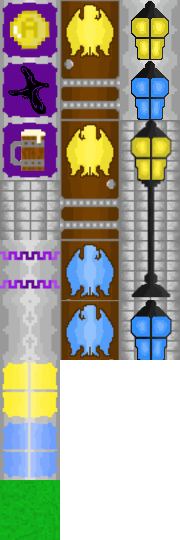
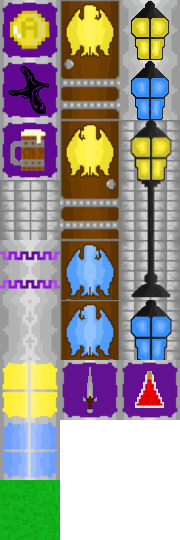
Fixed eaglecrest bank and the forge tilemaps, finished eaglecrest elixirs and the forge, bigfixes

Changed region(s): [[0.3333, 0.6519, 1.0, 0.8], [0.1111, 0.2667, 0.1389, 0.2963]]

diff --git a/gamedata/areadata.js b/gamedata/areadata.js
@@ -1135,13 +1135,13 @@ var Areas = {
 					},
 					{
 						sold: [
+							{item: Items.consumable[17], cost: 2, costCurrency: 5, eventRequirement: "Christmas"}, // Christmas Potion
 							{item: Items.consumable[4], cost: 2}, // potion of health I
-							{item: Items.consumable[3], cost: 2}, // potion of swiftness I
+							{item: Items.consumable[3], cost: 3}, // potion of swiftness I
 							{item: Items.consumable[2], cost: 4}, // potion of strength I
 							{item: Items.consumable[11], cost: 4, condition: function () { // potion of goblin resistance
 								return Player.quests.completedQuestArray.includes("Potion Making II");
 							}},
-							{item: Items.consumable[17], cost: 2, costCurrency: 5, eventRequirement: "Christmas"}, // Christmas Potion
 						],
 						role: "merchant",
 						roleRequirement: function () {
@@ -2968,7 +2968,7 @@ var Areas = {
 			dayTiles: [14, 17, 6, 18, 22], // windows and lights
 			nightTiles: [2, 8, 3, 9, 19], // windows and lights
 			layers: [
-				[16, 16, 16, 16, 16, 16, 16, 16, 16, 16, 16, 16, 16, 16, 16, 16, 16, 16, 16, 16, 16, 16, 16, 16, 16, 13, 13, 13, 13, 13, 13, 13, 13, 13, 13, 13, 13, 13, 13, 13, 13, 13, 13, 13, 13, 13, 13, 13, 13, 13, 6, 16, 16, 16, 16, 16, 16, 16, 16, 6, 16, 16, 16, 16, 16, 6, 16, 16, 16, 16, 16, 16, 16, 16, 6, 16, 16, 22, 16, 17, 14, 7, 22, 16, 16, 16, 16, 4, 16, 16, 16, 16, 22, 16, 17, 14, 1, 22, 16, 16, 16, 16, 16, 16, 11, 5, 16, 16, 16, 16, 16, 16, 16, 16, 16, 16, 16, 16, 16, 11, 5, 16, 16, 16, 16, 10, 10, 10, 10, 10, 10, 10, 10, 10, 10, 10, 10, 10, 10, 10, 10, 10, 10, 10, 10, 10, 10, 10, 10, 10, 10, 18, 10, 10, 10, 10, 10, 10, 10, 10, 10, 10, 10, 10, 10, 10, 10, 10, 10, 10, 10, 10, 10, 18, 10, 10, 12, 10, 10, 10, 10, 10, 10, 10, 10, 10, 10, 10, 10, 10, 10, 10, 10, 10, 10, 10, 10, 10, 12, 10, 10, 15, 10, 10, 10, 10, 10, 10, 10, 10, 10, 10, 10, 10, 10, 10, 10, 10, 10, 10, 10, 10, 10, 15, 10, 10, 10, 10, 10, 10, 10, 10, 10, 10, 10, 10, 10, 10, 10, 10, 10, 10, 10, 10, 10, 10, 10, 10, 10, 10, 10, 10, 10, 10, 10, 10, 10, 10, 10, 10, 10, 10, 10, 10, 10, 10, 10, 10, 10, 10, 10, 10, 10, 10, 10, 10, 10, 10, 10, 10, 10, 10, 10, 10, 10, 10, 10, 10, 10, 10, 10, 10, 10, 10, 10, 10, 10, 10, 10, 10, 10, 18, 10, 10, 10, 10, 10, 10, 10, 10, 10, 10, 10, 10, 10, 10, 10, 10, 10, 10, 10, 10, 10, 18, 10, 10, 12, 10, 10, 10, 10, 10, 10, 10, 10, 10, 10, 10, 10, 10, 10, 10, 10, 10, 10, 10, 10, 10, 12, 10, 10, 15, 10, 10, 10, 10, 10, 10, 10, 10, 10, 10, 10, 10, 10, 10, 10, 10, 10, 10, 10, 10, 10, 15, 10, 10, 10, 10, 10, 10, 10, 10, 10, 10, 10, 10, 10, 10, 10, 10, 10, 10, 10, 10, 10, 10, 10, 10, 10, 10, 10, 10, 10, 10, 10, 10, 10, 10, 10, 10, 10, 10, 10, 10, 10, 10, 10, 10, 10, 10, 10, 10, 10, 10, 10, 10, 10, 10, 10, 10, 10, 10, 10, 10, 10, 10, 10, 10, 10, 10, 10, 10, 10, 10, 10, 10, 10, 10, 10, 10, 10, 10, 10, 10, 10, 10, 10, 10, 18, 10, 10, 10, 10, 10, 10, 10, 18, 10, 10, 10, 10, 10, 10, 10, 10, 10, 10, 10, 10, 10, 10, 10, 10, 12, 10, 10, 10, 10, 10, 10, 10, 12, 10, 10, 10, 10, 10, 10, 10, 10, 10, 10, 10, 10, 10, 10, 10, 10, 15, 10, 10, 10, 10, 10, 10, 10, 15, 10, 10, 10, 10, 10, 10, 10, 10, 10, 10, 10, 10, 10, 10, 10, 10, 10, 10, 10, 10, 10, 10, 10, 10, 10, 10, 10, 10, 10, 10, 10, 10, 10],
+				[16, 16, 16, 16, 16, 16, 16, 16, 16, 16, 16, 16, 16, 16, 16, 16, 16, 16, 16, 16, 16, 16, 16, 16, 16, 13, 13, 13, 13, 13, 13, 13, 13, 13, 13, 13, 13, 13, 13, 13, 13, 13, 13, 13, 13, 13, 13, 13, 13, 13, 6, 16, 16, 16, 16, 16, 16, 16, 16, 6, 16, 16, 16, 16, 16, 6, 16, 16, 16, 16, 16, 16, 16, 16, 6, 16, 16, 22, 16, 17, 14, 7, 22, 16, 16, 16, 16, 4, 16, 16, 16, 16, 22, 1, 17, 14, 16, 22, 16, 16, 16, 16, 16, 16, 11, 5, 16, 16, 16, 16, 16, 16, 16, 16, 16, 16, 16, 16, 16, 11, 5, 16, 16, 16, 16, 10, 10, 10, 10, 10, 10, 10, 10, 10, 10, 10, 10, 10, 10, 10, 10, 10, 10, 10, 10, 10, 10, 10, 10, 10, 10, 18, 10, 10, 10, 10, 10, 10, 10, 10, 10, 10, 10, 10, 10, 10, 10, 10, 10, 10, 10, 10, 10, 18, 10, 10, 12, 10, 10, 10, 10, 10, 10, 10, 10, 10, 10, 10, 10, 10, 10, 10, 10, 10, 10, 10, 10, 10, 12, 10, 10, 15, 10, 10, 10, 10, 10, 10, 10, 10, 10, 10, 10, 10, 10, 10, 10, 10, 10, 10, 10, 10, 10, 15, 10, 10, 10, 10, 10, 10, 10, 10, 10, 10, 10, 10, 10, 10, 10, 10, 10, 10, 10, 10, 10, 10, 10, 10, 10, 10, 10, 10, 10, 10, 10, 10, 10, 10, 10, 10, 10, 10, 10, 10, 10, 10, 10, 10, 10, 10, 10, 10, 10, 10, 10, 10, 10, 10, 10, 10, 10, 10, 10, 10, 10, 10, 10, 10, 10, 10, 10, 10, 10, 10, 10, 10, 10, 10, 10, 10, 10, 18, 10, 10, 10, 10, 10, 10, 10, 10, 10, 10, 10, 10, 10, 10, 10, 10, 10, 10, 10, 10, 10, 18, 10, 10, 12, 10, 10, 10, 10, 10, 10, 10, 10, 10, 10, 10, 10, 10, 10, 10, 10, 10, 10, 10, 10, 10, 12, 10, 10, 15, 10, 10, 10, 10, 10, 10, 10, 10, 10, 10, 10, 10, 10, 10, 10, 10, 10, 10, 10, 10, 10, 15, 10, 10, 10, 10, 10, 10, 10, 10, 10, 10, 10, 10, 10, 10, 10, 10, 10, 10, 10, 10, 10, 10, 10, 10, 10, 10, 10, 10, 10, 10, 10, 10, 10, 10, 10, 10, 10, 10, 10, 10, 10, 10, 10, 10, 10, 10, 10, 10, 10, 10, 10, 10, 10, 10, 10, 10, 10, 10, 10, 10, 10, 10, 10, 10, 10, 10, 10, 10, 10, 10, 10, 10, 10, 10, 10, 10, 10, 10, 10, 10, 10, 10, 10, 10, 18, 10, 10, 10, 10, 10, 10, 10, 18, 10, 10, 10, 10, 10, 10, 10, 10, 10, 10, 10, 10, 10, 10, 10, 10, 12, 10, 10, 10, 10, 10, 10, 10, 12, 10, 10, 10, 10, 10, 10, 10, 10, 10, 10, 10, 10, 10, 10, 10, 10, 15, 10, 10, 10, 10, 10, 10, 10, 15, 10, 10, 10, 10, 10, 10, 10, 10, 10, 10, 10, 10, 10, 10, 10, 10, 10, 10, 10, 10, 10, 10, 10, 10, 10, 10, 10, 10, 10, 10, 10, 10, 10],
 				[],
 			],
 		},
@@ -3258,7 +3258,7 @@ var Areas = {
 			dayTiles: [14, 17, 6, 18, 22], // windows and lights
 			nightTiles: [2, 8, 3, 9, 19], // windows and lights
 			layers: [
-				[16, 16, 16, 16, 16, 16, 16, 16, 16, 16, 16, 16, 16, 16, 16, 16, 16, 16, 16, 16, 16, 13, 13, 13, 13, 13, 13, 13, 13, 13, 13, 13, 13, 13, 13, 13, 13, 13, 13, 13, 13, 13, 6, 16, 16, 16, 16, 4, 16, 16, 16, 16, 6, 16, 16, 16, 16, 4, 16, 16, 16, 16, 6, 16, 16, 16, 22, 16, 17, 16, 22, 16, 16, 16, 16, 16, 22, 16, 14, 16, 22, 16, 16, 16, 16, 16, 16, 16, 16, 11, 16, 16, 16, 16, 16, 16, 16, 16, 16, 5, 16, 16, 16, 16, 16, 10, 10, 10, 10, 10, 10, 10, 10, 10, 10, 10, 10, 10, 10, 10, 10, 10, 10, 10, 10, 10, 10, 10, 10, 10, 10, 10, 10, 10, 10, 10, 10, 10, 10, 10, 10, 10, 10, 10, 10, 10, 10, 10, 10, 10, 10, 10, 10, 10, 10, 10, 10, 10, 10, 10, 10, 10, 10, 10, 10, 10, 10, 10, 10, 10, 10, 10, 10, 10, 10, 10, 10, 10, 10, 10, 10, 10, 10, 10, 10, 10, 10, 10, 10, 10, 10, 10, 10, 10, 10, 10, 10, 10, 10, 10, 10, 10, 10, 10, 10, 10, 10, 10, 10, 10, 10, 10, 10, 10, 10, 10, 10, 10, 10, 10, 10, 10, 10, 10, 10, 10, 10, 10, 10, 10, 10],
+				[16, 16, 16, 16, 16, 16, 16, 16, 16, 16, 16, 16, 16, 16, 16, 16, 16, 16, 16, 16, 16, 13, 13, 13, 13, 13, 13, 13, 13, 13, 13, 13, 13, 13, 13, 13, 13, 13, 13, 13, 13, 13, 6, 16, 16, 16, 16, 4, 16, 16, 16, 16, 6, 16, 16, 16, 16, 20, 16, 16, 16, 16, 6, 16, 16, 16, 22, 16, 17, 16, 22, 16, 16, 4, 16, 16, 22, 16, 14, 16, 22, 16, 16, 16, 16, 16, 16, 16, 16, 11, 16, 16, 16, 16, 16, 16, 16, 16, 16, 5, 16, 16, 16, 16, 16, 10, 10, 10, 10, 10, 10, 10, 10, 10, 10, 10, 10, 10, 10, 10, 10, 10, 10, 10, 10, 10, 10, 10, 10, 10, 10, 10, 10, 10, 10, 10, 10, 10, 10, 10, 10, 10, 10, 10, 10, 10, 10, 10, 10, 10, 10, 10, 10, 10, 10, 10, 10, 10, 10, 10, 10, 10, 10, 10, 10, 10, 10, 10, 10, 10, 10, 10, 10, 10, 10, 10, 10, 10, 10, 10, 10, 10, 10, 10, 10, 10, 10, 10, 10, 10, 10, 10, 10, 10, 10, 10, 10, 10, 10, 10, 10, 10, 10, 10, 10, 10, 10, 10, 10, 10, 10, 10, 10, 10, 10, 10, 10, 10, 10, 10, 10, 10, 10, 10, 10, 10, 10, 10, 10, 10, 10],
 				[],
 			],
 		},
@@ -3273,7 +3273,7 @@ var Areas = {
 				// teleport to the forge
 				x: 930,
 				y: 210,
-				width: 120,
+				width: 60,
 				height: 2,
 				teleportTo: "theForge",
 				destinationX: 395,
@@ -3373,7 +3373,7 @@ var Areas = {
 			dayTiles: [14, 17, 6, 18, 22], // windows and lights
 			nightTiles: [2, 8, 3, 9, 19], // windows and lights
 			layers: [
-				[16, 16, 16, 16, 16, 16, 16, 16, 16, 16, 16, 16, 16, 16, 16, 16, 16, 16, 16, 16, 16, 13, 13, 13, 13, 13, 13, 13, 13, 13, 13, 13, 13, 13, 13, 13, 13, 13, 13, 13, 13, 13, 6, 16, 16, 16, 16, 4, 16, 16, 16, 16, 6, 16, 16, 16, 16, 4, 16, 16, 16, 16, 6, 16, 16, 16, 22, 16, 17, 16, 22, 16, 16, 16, 16, 16, 22, 16, 14, 16, 22, 16, 16, 16, 16, 16, 16, 16, 16, 11, 16, 16, 16, 16, 16, 16, 16, 16, 16, 5, 16, 16, 16, 16, 16, 10, 10, 10, 10, 10, 10, 10, 10, 10, 10, 10, 10, 10, 10, 10, 10, 10, 10, 10, 10, 10, 10, 10, 10, 10, 10, 10, 10, 10, 10, 10, 10, 10, 10, 10, 10, 10, 10, 10, 10, 10, 10, 10, 10, 10, 10, 10, 10, 10, 10, 10, 10, 10, 10, 10, 10, 10, 10, 10, 10, 10, 10, 10, 10, 10, 10, 10, 10, 10, 10, 10, 10, 10, 10, 10, 10, 10, 10, 10, 10, 10, 10, 10, 10, 10, 10, 10, 10, 10, 10, 10, 10, 10, 10, 10, 10, 10, 10, 10, 10, 10, 10, 10, 10, 10, 10, 10, 10, 10, 10, 10, 10, 10, 10, 10, 10, 10, 10, 10, 10, 10, 10, 10, 10, 10, 10],
+				[16, 16, 16, 16, 16, 16, 16, 16, 16, 16, 16, 16, 16, 16, 16, 16, 16, 16, 16, 16, 16, 13, 13, 13, 13, 13, 13, 13, 13, 13, 13, 13, 13, 13, 13, 13, 13, 13, 13, 13, 13, 13, 6, 16, 16, 16, 16, 21, 16, 16, 16, 16, 6, 16, 16, 16, 16, 4, 16, 16, 16, 16, 6, 16, 16, 16, 22, 16, 17, 16, 22, 16, 16, 4, 16, 16, 22, 16, 14, 16, 22, 16, 16, 16, 16, 16, 16, 16, 16, 11, 16, 16, 16, 16, 16, 16, 16, 16, 16, 5, 16, 16, 16, 16, 16, 10, 10, 10, 10, 10, 10, 10, 10, 10, 10, 10, 10, 10, 10, 10, 10, 10, 10, 10, 10, 10, 10, 10, 10, 10, 10, 10, 10, 10, 10, 10, 10, 10, 10, 10, 10, 10, 10, 10, 10, 10, 10, 10, 10, 10, 10, 10, 10, 10, 10, 10, 10, 10, 10, 10, 10, 10, 10, 10, 10, 10, 10, 10, 10, 10, 10, 10, 10, 10, 10, 10, 10, 10, 10, 10, 10, 10, 10, 10, 10, 10, 10, 10, 10, 10, 10, 10, 10, 10, 10, 10, 10, 10, 10, 10, 10, 10, 10, 10, 10, 10, 10, 10, 10, 10, 10, 10, 10, 10, 10, 10, 10, 10, 10, 10, 10, 10, 10, 10, 10, 10, 10, 10, 10, 10, 10],
 				[],
 			],
 		},
@@ -3388,7 +3388,7 @@ var Areas = {
 				// teleport to elixirs
 				x: 330,
 				y: 210,
-				width: 120,
+				width: 60,
 				height: 2,
 				teleportTo: "eaglecrestElixirs",
 				destinationX: 395,
@@ -3474,7 +3474,7 @@ var Areas = {
 			tilesPerRow: 2,
 			solidTiles: [1], // wall
 			layers: [
-				[1, 1, 1, 1, 1, 1, 1, 1, 1, 1, 1, 1, 1, 1, 1, 1, 1, 1, 5, 5, 1, 1, 5, 5, 1, 1, 1, 5, 5, 1, 1, 5, 5, 1, 1, 5, 5, 1, 1, 5, 5, 1, 1, 1, 5, 5, 1, 1, 5, 5, 1, 1, 1, 1, 1, 1, 1, 1, 1, 1, 1, 1, 1, 1, 1, 1, 1, 1, 2, 3, 2, 3, 2, 3, 2, 3, 2, 3, 2, 3, 2, 3, 2, 3, 2, 3, 2, 3, 2, 3, 2, 3, 2, 3, 2, 3, 2, 3, 2, 3, 2, 3, 4, 4, 4, 4, 4, 4, 2, 3, 2, 3, 2, 4, 4, 4, 4, 4, 4, 4, 4, 4, 4, 4, 4, 4, 2, 3, 2, 4, 4, 4, 4, 4, 4, 4, 4, 4, 4, 4, 4, 4, 4, 3, 2, 3, 4, 4, 4, 4, 4, 4, 4, 4, 4, 4, 4, 4, 4, 4, 2, 3, 2, 4, 4, 4, 4, 4, 4, 4, 4, 4, 4, 4, 4, 4, 4, 3, 2, 3, 4, 4, 4, 4, 4, 4, 4, 4, 4, 4, 4, 4, 4, 4, 2, 3, 2, 4, 4, 4, 4, 4, 4, 4, 4, 4, 4, 4, 4, 4, 4, 3, 2, 3, 4, 4, 4, 4, 4, 4, 4, 4, 4, 4, 4, 4, 4, 4, 2, 3, 2, 4, 4, 4, 4, 4, 4, 4, 4, 4, 4, 4, 4, 4, 2, 3, 2, 3, 2, 4, 4, 4, 4, 4, 4],
+				[1, 1, 1, 1, 1, 1, 1, 1, 1, 1, 1, 1, 1, 1, 1, 1, 1, 1, 9, 9, 1, 1, 9, 9, 1, 1, 1, 9, 9, 1, 1, 9, 9, 1, 1, 9, 9, 1, 1, 9, 9, 1, 1, 1, 9, 9, 1, 1, 9, 9, 1, 1, 1, 1, 1, 1, 1, 1, 1, 1, 1, 1, 1, 1, 1, 1, 1, 1, 3, 5, 3, 5, 3, 5, 3, 5, 3, 5, 3, 5, 3, 5, 3, 5, 3, 5, 3, 5, 3, 5, 3, 5, 3, 5, 3, 5, 3, 5, 3, 5, 3, 5, 7, 7, 7, 7, 7, 7, 3, 5, 3, 5, 3, 7, 7, 7, 7, 7, 7, 7, 7, 7, 7, 7, 7, 7, 3, 5, 3, 7, 7, 7, 7, 7, 7, 7, 7, 7, 7, 7, 7, 7, 7, 5, 3, 5, 7, 7, 7, 7, 7, 7, 7, 7, 7, 7, 7, 7, 7, 7, 3, 5, 3, 7, 7, 7, 7, 7, 7, 7, 7, 7, 7, 7, 7, 7, 7, 5, 3, 5, 7, 7, 7, 7, 7, 7, 7, 7, 7, 7, 7, 7, 7, 7, 3, 5, 3, 7, 7, 7, 7, 7, 7, 7, 7, 7, 7, 7, 7, 7, 7, 5, 3, 5, 7, 7, 7, 7, 7, 7, 7, 7, 7, 7, 7, 7, 7, 7, 3, 5, 3, 7, 7, 7, 7, 7, 7, 7, 7, 7, 7, 7, 7, 7, 3, 5, 3, 5, 3, 7, 7, 7, 7, 7, 7],
 				[],
 			],
 		},
@@ -4182,15 +4182,22 @@ var Areas = {
 			rows: 14,
 			tsize: 60,
 			tilesPerRow: 2,
-			solidTiles: [1], // wall
+			solidTiles: [1, 11], // wall
+			dayTiles: [2], // windows
+			nightTiles: [4],
 			layers: [
-				[1, 1, 1, 1, 1, 1, 1, 1, 1, 1, 1, 1, 1, 1, 1, 1, 1, 1, 1, 1, 1, 1, 1, 1, 1, 1, 1, 1, 1, 1, 1, 1, 1, 1, 1, 1, 1, 1, 1, 1, 1, 1, 1, 1, 1, 1, 1, 1, 1, 1, 1, 1, 4, 4, 4, 4, 4, 4, 4, 4, 4, 4, 4, 4, 4, 4, 4, 4, 4, 4, 4, 4, 4, 4, 4, 4, 4, 4, 4, 4, 4, 4, 4, 4, 4, 4, 4, 4, 4, 4, 4, 4, 4, 4, 4, 4, 4, 4, 4, 4, 4, 4, 4, 4, 4, 4, 4, 4, 4, 4, 4, 4, 4, 4, 4, 4, 4, 4, 4, 4, 4, 4, 4, 4, 4, 4, 4, 4, 4, 4, 4, 4, 4, 4, 4, 4, 4, 4, 4, 4, 4, 4, 4, 4, 4, 4, 4, 4, 4, 4, 4, 4, 4, 4, 4, 4, 4, 4, 4, 4, 4, 4, 4, 4, 4, 4, 4, 4, 4, 4, 4, 4, 4, 4, 4, 4, 4, 4, 4, 4, 4, 4],
+				[1, 1, 1, 1, 1, 1, 1, 1, 1, 1, 1, 1, 1, 1, 2, 1, 1, 1, 1, 2, 1, 1, 1, 1, 2, 1, 1, 1, 1, 1, 1, 1, 1, 1, 1, 1, 1, 1, 1, 1, 1, 1, 1, 1, 1, 1, 1, 1, 1, 1, 1, 1, 7, 7, 7, 7, 7, 7, 7, 7, 7, 7, 7, 7, 7, 7, 7, 7, 7, 7, 7, 7, 7, 7, 7, 7, 7, 7, 7, 7, 7, 11, 11, 11, 11, 11, 11, 11, 7, 7, 7, 7, 7, 7, 7, 7, 7, 7, 7, 7, 7, 7, 7, 7, 7, 7, 7, 7, 7, 7, 7, 7, 7, 7, 7, 7, 7, 7, 7, 7, 7, 7, 7, 7, 7, 7, 7, 7, 7, 7, 7, 7, 7, 7, 7, 7, 7, 7, 7, 7, 7, 7, 7, 7, 7, 7, 7, 7, 7, 7, 7, 7, 7, 7, 7, 7, 7, 7, 7, 7, 7, 7, 7, 7, 7, 7, 7, 7, 7, 7, 7, 7, 7, 7, 7, 7, 7, 7, 7, 7, 7, 7],
 				[],
 			],
 		},
 
 		images: {
 			tiles: {normal: "assets/tilemap/eaglecrestShop.png"},
+			blacksmith: {normal: "assets/npcs/blacksmith.png"},
+			eaglecrestianForgedSet: {normal: "assets/items/set/5.png"},
+			eaglecrestianForgedBow: {normal: "assets/items/bow/11.png"},
+			eaglecrestianForgedStaff: {normal: "assets/items/staff/11archaeology.png"},
+			eaglecrestianForgedSword: {normal: "assets/items/sword/12.png"},
 		},
 
 		areaTeleports: [
@@ -4220,8 +4227,87 @@ var Areas = {
 		},
 
 		npcs: [
-
+			{
+				x: 390,
+				y: 335,
+				image: "blacksmith",
+				crop: {height: 50},
+				name: "Valdan the Blacksmith",
+				hostility: "friendly",
+				level: 40,
+				stats: {
+					maxHealth: 250,
+					defence: 5,
+				},
+				roles: [
+					{
+						sold: [
+							Player.class === "k" ? {item: Items.sword[2], cost: 7}
+							: Player.class === "m" ? {item: Items.staff[2], cost: 7}
+							: {item: Items.bow[2], cost: 7},
+							{item: Items.helm[19], cost: 6},
+							{item: Items.chest[8], cost: 7},
+							{item: Items.greaves[7], cost: 7},
+							{item: Items.boots[11], cost: 6},
+						],
+						role: "merchant",
+						shopGreeting: "Behold the finest steel o' Eaglecrest! It's worth every coin.",
+					},
+				],
+				chat: {
+					shopLeave: "The equipment'll last forever, we guarantee it.",
+					inventoryFull: "You can't buy that 'un without space in your bags!",
+					tooPoor: "You don't have enough gold for that! I'm not gonna work for free, you know. This is fine quality stuff.",
+					areaJoin: "Welcome to The Forge! How can I be helpin' you today?"
+				},
+			},
 		],
+
+		things: [
+			{
+				x: 60,
+				y: 200,
+				image: "eaglecrestianForgedSet",
+				name: "Eaglecrestian Forged Set",
+			},
+			{
+				x: 280,
+				y: 200,
+				image: "eaglecrestianForgedSet",
+				name: "Eaglecrestian Forged Set",
+			},
+			{
+				x: 500,
+				y: 200,
+				image: "eaglecrestianForgedSet",
+				name: "Eaglecrestian Forged Set",
+			},
+			{
+				x: 720,
+				y: 200,
+				image: "eaglecrestianForgedSet",
+				name: "Eaglecrestian Forged Set",
+			},
+			{
+				x: 570,
+				y: 90,
+				image: "eaglecrestianForgedBow",
+				name: "Eaglecrestian Forged Bow",
+			},
+			{
+				x: 390,
+				y: 210,
+				image: "eaglecrestianForgedStaff",
+				name: "Eaglecrestian Forged Staff",
+			},
+			{
+				x: 210,
+				y: 90,
+				image: "eaglecrestianForgedSword",
+				name: "Eaglecrestian Forged Sword",
+			},
+		],
+
 	},
 
 	eaglecrestElixirs: {
@@ -4249,7 +4335,9 @@ var Areas = {
 			rows: 14,
 			tsize: 60,
 			tilesPerRow: 2,
-			solidTiles: [1], // wall
+			solidTiles: [1, 11], // wall
+			dayTiles: [2], // windows
+			nightTiles: [4],
 			layers: [
 				[1, 1, 1, 6, 12, 8, 14, 8, 14, 10, 1, 1, 1, 1, 2, 1, 8, 14, 10, 2, 10, 6, 12, 1, 2, 1, 1, 1, 1, 10, 6, 12, 6, 12, 8, 14, 1, 1, 1, 1, 1, 1, 1, 1, 1, 1, 1, 1, 1, 1, 1, 1, 7, 7, 7, 7, 7, 7, 7, 7, 7, 7, 7, 7, 7, 7, 7, 7, 7, 7, 7, 7, 7, 7, 7, 7, 7, 7, 7, 7, 7, 11, 11, 11, 11, 11, 11, 11, 7, 7, 7, 7, 7, 7, 7, 7, 7, 7, 7, 7, 7, 7, 7, 7, 7, 7, 7, 7, 7, 7, 7, 7, 7, 7, 7, 7, 7, 7, 7, 7, 7, 7, 7, 7, 7, 7, 7, 7, 7, 7, 7, 7, 7, 7, 7, 7, 7, 7, 7, 7, 7, 7, 7, 7, 7, 7, 7, 7, 7, 7, 7, 7, 7, 7, 7, 7, 7, 7, 7, 7, 7, 7, 7, 7, 7, 7, 7, 7, 7, 7, 7, 7, 7, 7, 7, 7, 7, 7, 7, 7, 7, 7],
 				[],
@@ -4258,6 +4346,9 @@ var Areas = {
 
 		images: {
 			tiles: {normal: "assets/tilemap/eaglecrestShop.png"},
+			tamtam: {normal: "assets/npcs/tamtam.png"},
+			potionStand: {normal: "assets/objects/potionStand.png"},
+			cauldronEaglecrest: {normal: "assets/objects/cauldronEaglecrest.png"},
 		},
 
 		areaTeleports: [
@@ -4287,8 +4378,76 @@ var Areas = {
 		},
 
 		npcs: [
-
+			{
+				x: 340,
+				y: 322,
+				image: "tamtam",
+				crop: {height: 76},
+				name: "Alchemist Tamtam",
+				hostility: "friendly",
+				level: 40,
+				stats: {
+					maxHealth: 250,
+					defence: 4,
+				},
+				roles: [
+					{
+						sold: [
+							{item: Items.consumable[17], cost: 2, costCurrency: 5, eventRequirement: "Christmas"}, // Christmas Potion
+							{item: Items.consumable[4], cost: 2}, // potion of health I
+							{item: Items.consumable[3], cost: 3}, // potion of swiftness I
+							{item: Items.consumable[2], cost: 4}, // potion of strength I
+							{item: Items.consumable[23], cost: 4}, // potion of evasion I
+							{item: Items.consumable[24], cost: 4}, // potion of regeneration I
+							{item: Items.consumable[25], cost: 3}, // potion of fire resistance
+						],
+						role: "merchant",
+						shopGreeting: "There's a potion for you, and you, and youuuuu!",
+					},
+				],
+				chat: {
+					chooseChat: "Loooooking good my friend! Wanna buy a potion?",
+					shopLeave: "Baiiiiii!",
+					inventoryFull: "You have no space for that one!",
+					tooPoor: "You need more gold! <sup>Gold! <sup>Goooooold!</sup></sup>",
+					areaJoin: "Hellooooo! Welcome to Eaglecrest Elixirs! You look like you could do with one of Tamtam's toxins!"
+				},
+			},
 		],
+
+		things: [
+			{
+				x: 240,
+				y: 333,
+				image: "potionStand",
+				name: "Potion Stand",
+			},
+			{
+				x: 490,
+				y: 333,
+				image: "potionStand",
+				name: "Potion Stand",
+			},
+			{
+				x: 720,
+				y: 600,
+				image: "cauldronEaglecrest",
+				name: "Cauldron",
+			},
+			{
+				x: 730,
+				y: 285,
+				image: "cauldronEaglecrest",
+				name: "Cauldron",
+			},
+			{
+				x: 650,
+				y: 280,
+				image: "cauldronEaglecrest",
+				name: "Cauldron",
+			},
+		],
+
 	},
 };
 

diff --git a/gamedata/itemdata.js b/gamedata/itemdata.js
@@ -2843,6 +2843,30 @@ var Items = {
 				}
 			},
 		},
+		{
+			id: 23,
+			name: "Potion of Evasion I",
+			type: "consumable",
+			image: "assets/items/consumable/23.png",
+			sellPrice: 2,
+			functionText: "Increases dodge chance by 40% for 10 seconds.",
+		},
+		{
+			id: 24,
+			name: "Potion of Regeneration I",
+			type: "consumable",
+			image: "assets/items/consumable/24.png",
+			sellPrice: 2,
+			functionText: "Increases health regen by 1.5 for 20 seconds.",
+		},
+		{
+			id: 25,
+			name: "Potion of Fire Resistance",
+			type: "consumable",
+			image: "assets/items/consumable/25.png",
+			sellPrice: 1,
+			functionText: "Makes you immune to fire damage for 15 seconds.",
+		},
 	],
 	food: [
 		{
@@ -3935,10 +3959,12 @@ const WeaponRanges = {
 // returns total number of items in archaeology
 GetTotalArchaeologyItems = function () {
 	let total = 0;
-	for (var i = 0; i < 7; i++) {
-		for (var x = 2; x < Items[Object.keys(Items)[i]].length; x++) {
-			if (!Items[Object.keys(Items)[i]][x].uncollectable && (!Items[Object.keys(Items)[i]][x].limitedEdition || User.archaeology.includes(Items[Object.keys(Items)[i]][x].name))) {
-				total++;
+	if (User !== undefined) {
+		for (var i = 0; i < 7; i++) {
+			for (var x = 2; x < Items[Object.keys(Items)[i]].length; x++) {
+				if (!Items[Object.keys(Items)[i]][x].uncollectable && (!Items[Object.keys(Items)[i]][x].limitedEdition || User.archaeology.includes(Items[Object.keys(Items)[i]][x].name))) {
+					total++;
+				}
 			}
 		}
 	}
